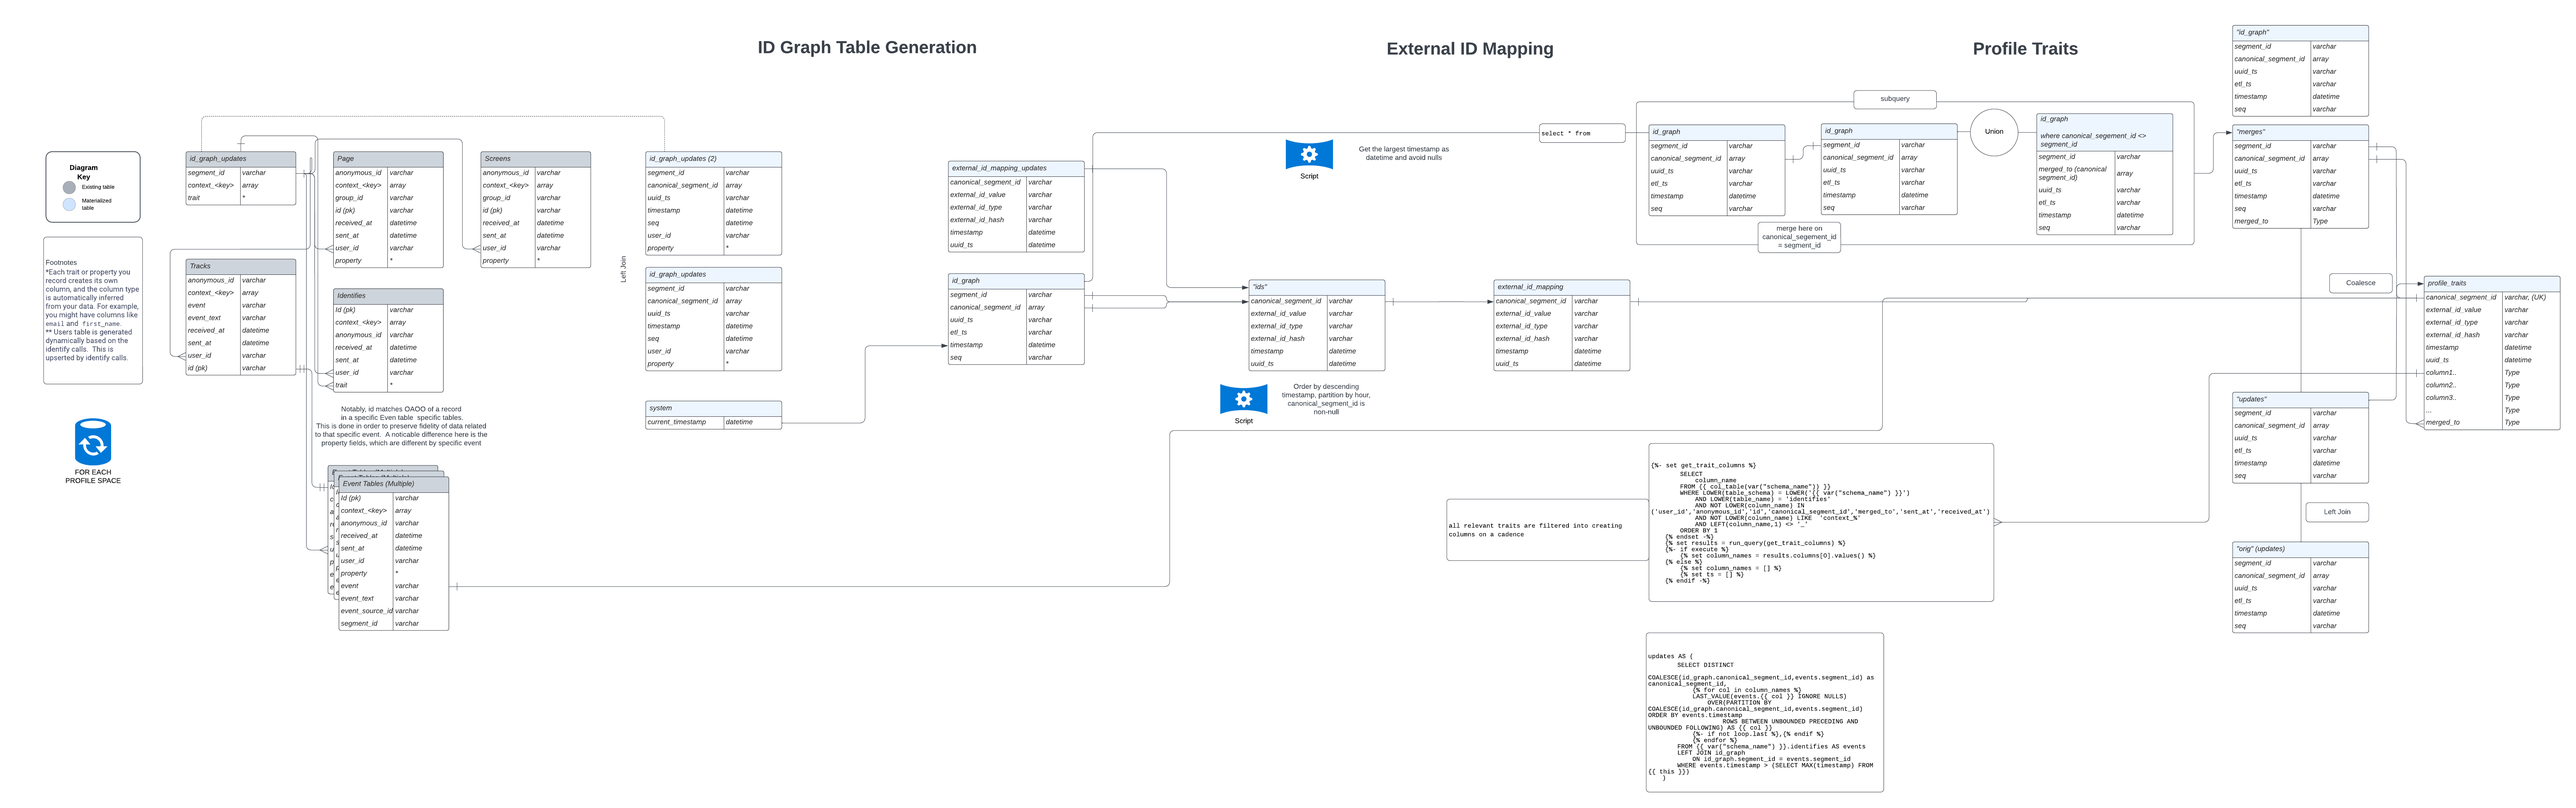
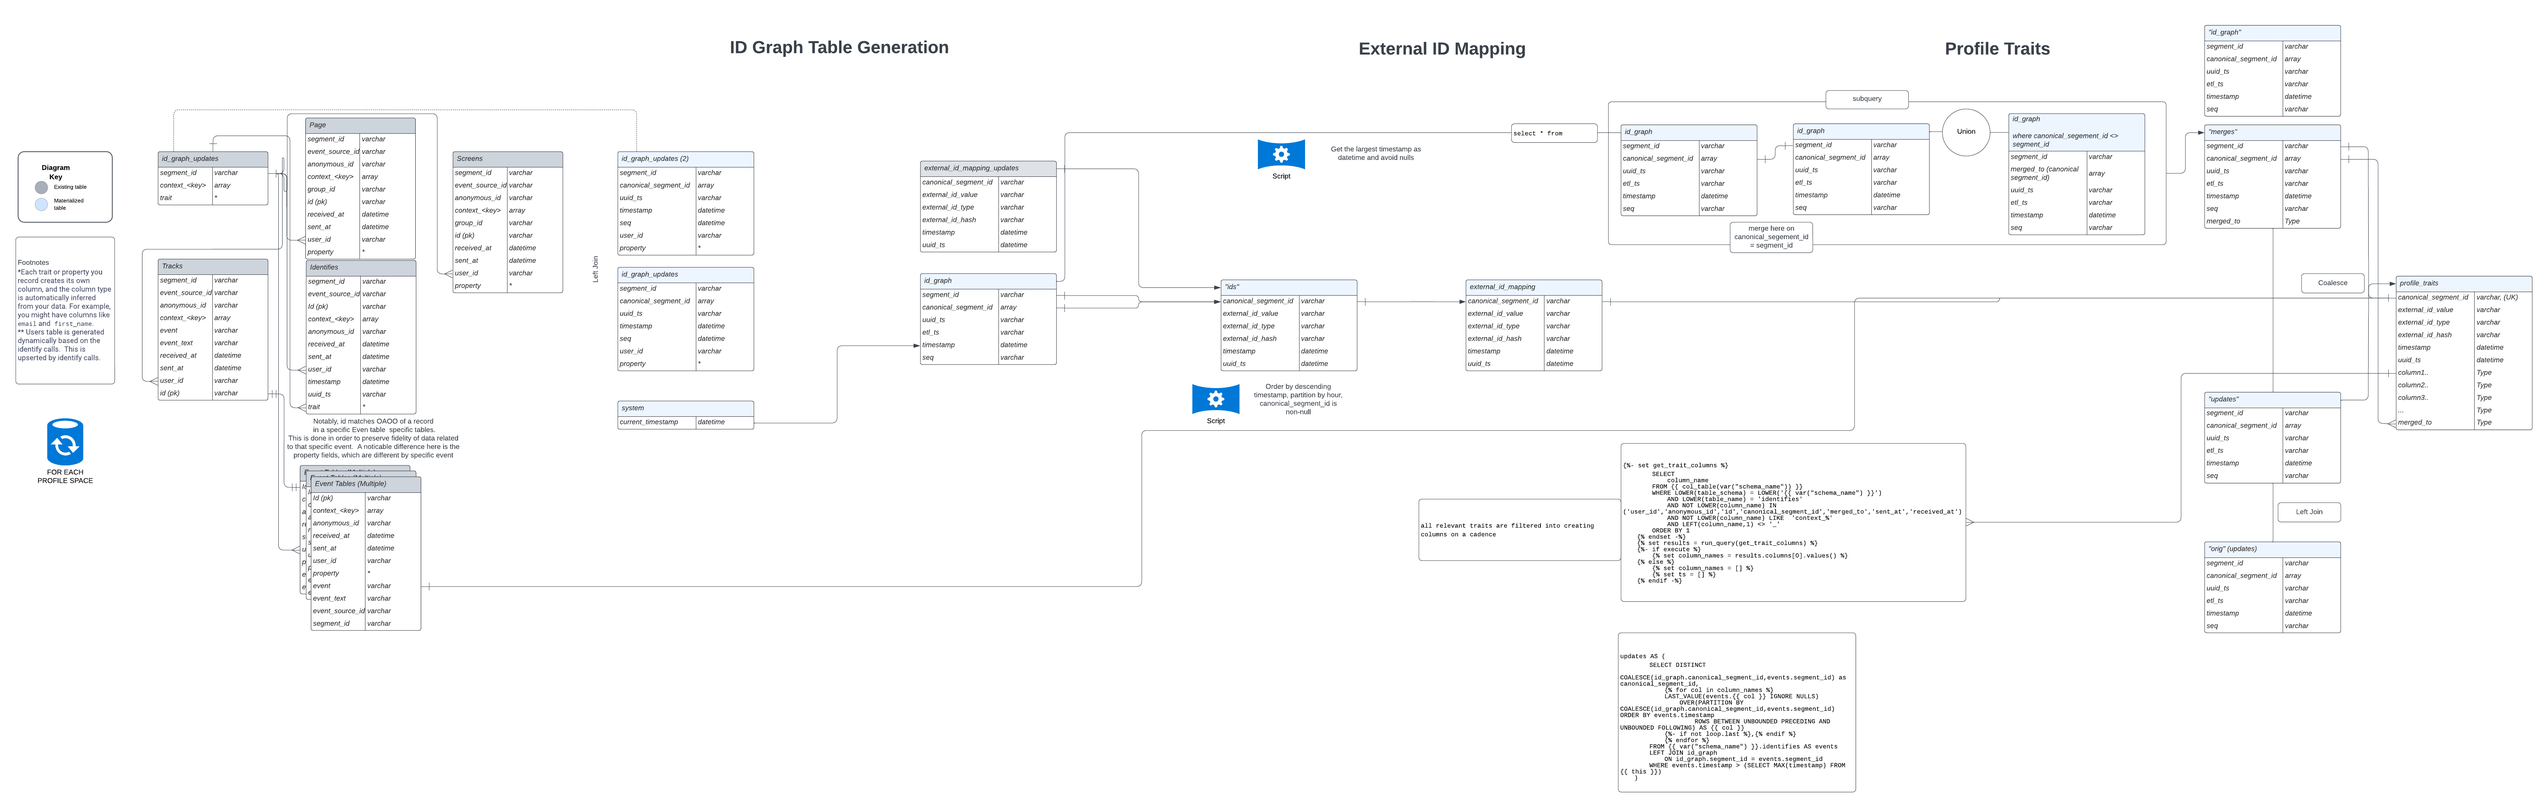
Add ERD to Profiles Sync

diff --git a/src/unify/profiles-sync/tables.md b/src/unify/profiles-sync/tables.md
@@ -171,12 +171,10 @@ Profiles Sync uses the following schema: `<profiles_space_name>.<tableName>`.
 
 If your space has the same name as a source connected to your Segment Warehouse destination, Segment overwrites data to the Event tables.
 
-{% comment %} (commenting out ERD draft for now) 
 
 > success ""
 > For more on Profiles Sync logic, table mappings, and data types, download this [Profiles Sync ERD](/docs/unify/files/ERD.png) or visit [schema evolution and compatibility](/docs/connections/storage/warehouses/schema/#schema-evolution-and-compatibility).
 
-{% endcomment %}
 
 {% comment %}
 

diff --git a/src/unify/profiles-sync/overview.md b/src/unify/profiles-sync/overview.md
@@ -51,8 +51,6 @@ To learn more about Profiles Sync, visit the following docs:
 - [Sample Queries](/docs/unify/profiles-sync/sample-queries/): View sample queries you can run to help you familiarize yourself with Profiles Sync.
 - [Tables and materialized views](/docs/unify/profiles-sync/tables/): Learn how to use data sets and models that Segment provides to enrich customer profiles.
 
-{% comment %} (commenting out ERD draft for now)
+
 > info ""
 > For more on Profiles Sync logic, table mappings, and data types, download this [Profiles Sync ERD](/docs/unify/files/ERD.png).
-
-{% endcomment %}
